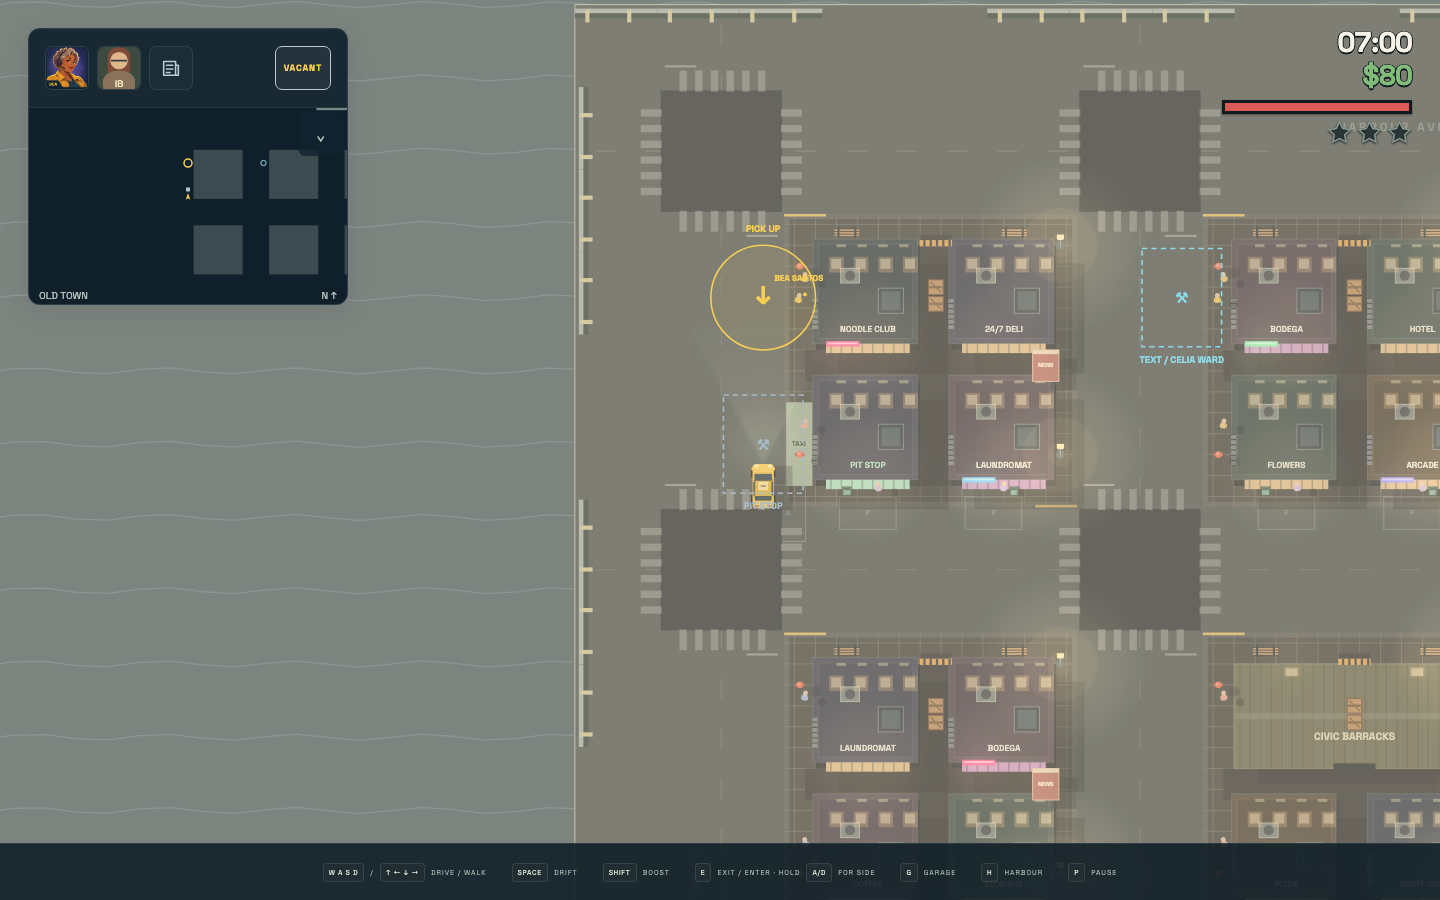
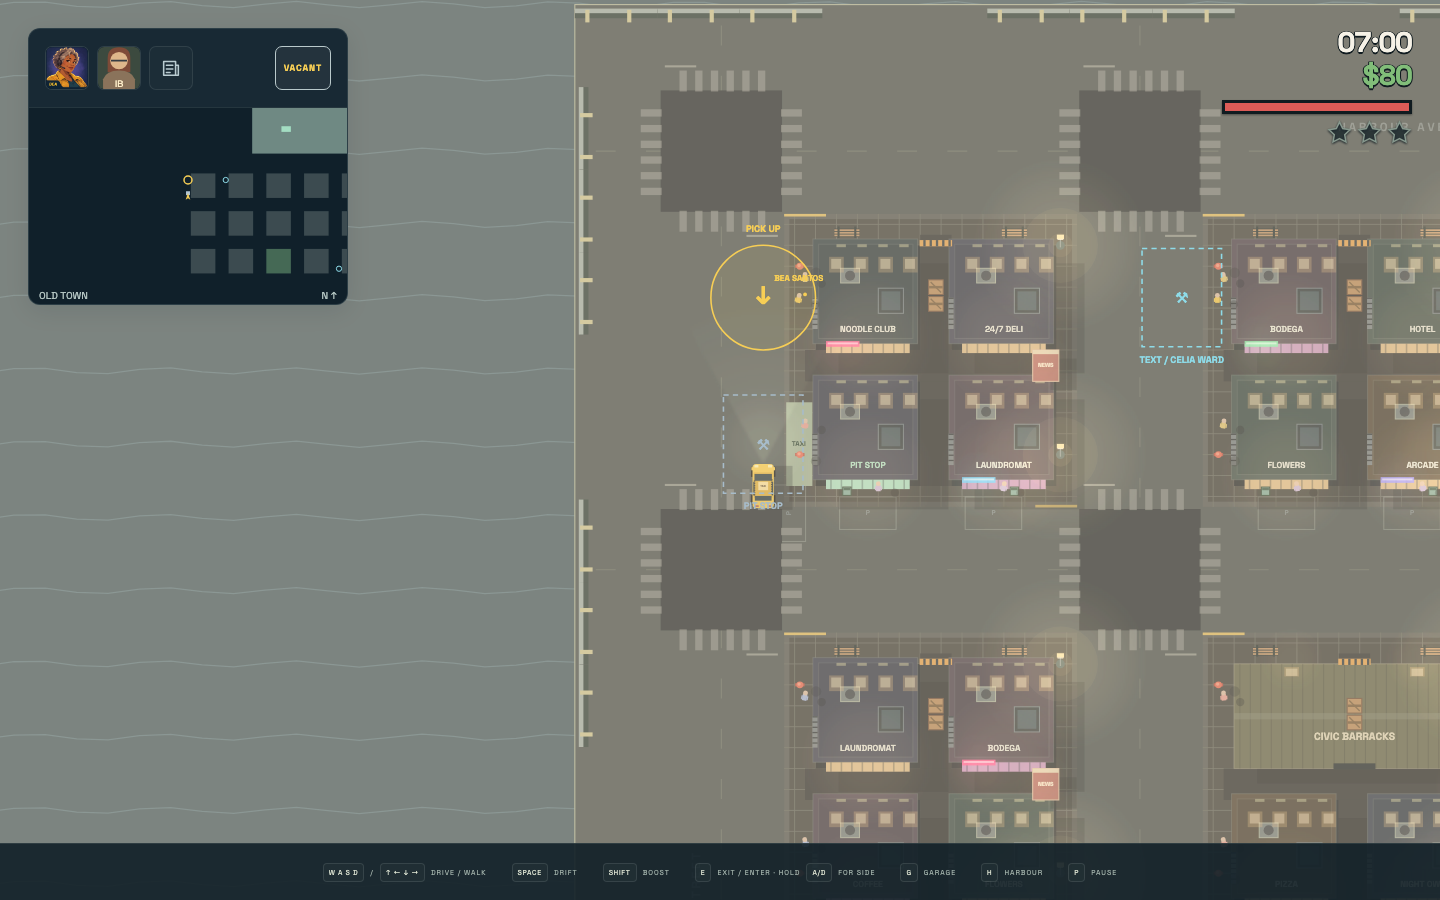
Keep minimap always visible and double its neighbourhood coverage

Changed region(s): [[0.125, 0.0933, 0.25, 0.3111]]

diff --git a/src/navigation-hud.ts b/src/navigation-hud.ts
@@ -20,7 +20,7 @@ export const navigationHudMarkup = `<aside class="navigation-hud panel" aria-lab
     </div>
     <button id="job-status" class="taxi-state" title="Clear fare guidance and browse dispatch">ENGAGED</button>
   </header>
-  <div class="navigation-chart"><div id="map-content"><canvas id="map" aria-label="Local minimap: yellow is your taxi, circles or edge arrows are destinations, blue squares are the garage or parked rides, red dots are police"></canvas></div><button id="map-toggle" class="map-toggle" aria-expanded="true" aria-controls="map-content" aria-label="Collapse navigation map"><span class="map-chevron" aria-hidden="true">⌄</span></button></div>
+  <div class="navigation-chart"><canvas id="map" aria-label="Local minimap: yellow is your taxi, circles or edge arrows are destinations, blue squares are the garage or parked rides, red dots are police"></canvas></div>
 </aside>`;
 
 /** View-only state: dispatch, physics, pickups and the saved game remain authoritative. */
@@ -73,12 +73,6 @@ export function bindNavigationHud(root: HTMLElement, currentGame: () => Game, ac
   });
   get('texts').addEventListener('click', actions.texts);
   get('newsroom').addEventListener('click', () => { currentGame().navigateNewsroom(); refresh(); actions.focus(); });
-  get('map-toggle').addEventListener('click', () => {
-    const collapsed = !get('map-content').hidden;
-    get('map-content').hidden = collapsed; panel.classList.toggle('collapsed', collapsed);
-    get('map-toggle').setAttribute('aria-expanded', String(!collapsed));
-    get('map-toggle').setAttribute('aria-label', collapsed ? 'Expand navigation map' : 'Collapse navigation map');
-  });
   let dispatcher = '';
   function refresh() {
     const g = currentGame(), state = navigationHudState(g, view().routed);

diff --git a/src/navigation-hud.test.ts b/src/navigation-hud.test.ts
@@ -7,18 +7,17 @@ describe('consolidated navigation HUD', () => {
     expect(navigationHudMarkup.match(/id="map"/g)).toHaveLength(1);
     expect(navigationHudMarkup).not.toContain('class="player-hud"');
     expect(navigationHudMarkup).not.toMatch(/https?:|<image|target|lightning/i);
-    for (const id of ['dispatch', 'texts', 'newsroom', 'job-status', 'mission-title', 'distance', 'map-toggle']) expect(navigationHudMarkup).toContain(`id="${id}"`);
+    for (const id of ['dispatch', 'texts', 'newsroom', 'job-status', 'mission-title', 'distance']) expect(navigationHudMarkup).toContain(`id="${id}"`);
   });
 
   it('ends at the minimap without instructions, readouts or service buttons below it', () => {
-    expect(navigationHudMarkup).toMatch(/<\/button><\/div>\s*<\/aside>$/);
+    expect(navigationHudMarkup).toMatch(/<\/canvas><\/div>\s*<\/aside>$/);
     for (const id of ['mission-description', 'job-progress', 'fare', 'fast-tip', 'comfort', 'notebook', 'photo', 'garage', 'harbour', 'boost-meter', 'speed']) expect(navigationHudMarkup).not.toContain(`id="${id}"`);
   });
 
-  it('keeps an accessible collapse chevron without a live or pursuit label', () => {
-    expect(navigationHudMarkup).not.toMatch(/map-status|LIVE|PURSUIT/);
-    expect(navigationHudMarkup).toContain('aria-label="Collapse navigation map"');
-    expect(navigationHudMarkup).toContain('class="map-chevron"');
+  it('keeps an accessible map without a status label or collapse button', () => {
+    expect(navigationHudMarkup).not.toMatch(/map-status|LIVE|PURSUIT|map-toggle|map-chevron|aria-expanded/);
+    expect(navigationHudMarkup).toContain('aria-label="Local minimap:');
   });
 
   it('distinguishes engaged, on-board and vacant without mutating the fare', () => {

diff --git a/src/radar.test.ts b/src/radar.test.ts
@@ -9,14 +9,21 @@ describe('local radar navigation', () => {
         const view = radarView(actor, width, height);
         expect(actor.x * view.scale + view.offset.x).toBeCloseTo(width / 2);
         expect(actor.y * view.scale + view.offset.y).toBeCloseTo(height / 2);
-        expect(view.scale * 160).toBeCloseTo(width - 16);
+        expect(view.scale * 320).toBeCloseTo(width - 16);
       }
     }
   });
   it('leaves nearby destinations in their actual positions', () => {
     const view = radarView(vec(4, 25), 176, 126);
-    expect(radarMarker(vec(14, 38), view, 176, 126)).toEqual({ position: vec(98, 76), angle: Math.atan2(13, 10), offscreen: false });
+    expect(radarMarker(vec(14, 38), view, 176, 126)).toEqual({ position: vec(93, 69.5), angle: Math.atan2(13, 10), offscreen: false });
     expect(radarMarker(vec(4, 25), view, 176, 126).offscreen).toBe(false);
+  });
+  it('shows destinations 100 m away inside the wider desktop and touch view', () => {
+    for (const [width, height] of [[320, 178], [204, 116], [240, 67], [176, 126], [114, 90]]) {
+      const actor = vec(4, 25), view = radarView(actor, width, height);
+      expect(radarMarker(vec(actor.x + 100, actor.y), view, width, height).offscreen).toBe(false);
+      expect(radarMarker(vec(actor.x - 100, actor.y), view, width, height).offscreen).toBe(false);
+    }
   });
   it('keeps distant destinations visible and preserves bearing in every direction', () => {
     for (const [width, height] of [[176, 126], [114, 90]]) {

diff --git a/src/navigation-hud.css b/src/navigation-hud.css
@@ -19,8 +19,6 @@
 .navigation-hud button:disabled:not(.taxi-state){opacity:.35}
 .navigation-chart{position:relative;border-top:1px solid var(--border);background:#0b1b2490}
 .navigation-hud #map{display:block;width:100%;height:196px;margin:0;padding:0}
-.navigation-hud .map-toggle{position:absolute;top:4px;right:4px;width:auto;min-width:44px;min-height:44px;justify-content:center;padding:0 8px;border-radius:6px;background:#10222dcc;letter-spacing:.6px}
-.navigation-hud.collapsed .navigation-chart{height:44px}
 /* Preserve the existing right-hand personal status and conversation layout. */
 .toast{max-width:calc(100% - 440px)}
 @media(max-width:700px), (max-width:1000px) and (max-height:500px), (pointer:coarse) and (max-width:1200px){

diff --git a/src/main.ts b/src/main.ts
@@ -172,7 +172,7 @@ window.addEventListener('keydown', e => {
   if (e.code === 'Space' && (game.mode === 'wasted' || game.mode === 'arrested') && !target?.closest('input, select, textarea')) {
     e.preventDefault(); if (!e.repeat) $('recover').click(); return;
   }
-  // Preserve native keyboard activation for HUD buttons, including radar toggle.
+  // Preserve native keyboard activation for HUD buttons.
   if (target?.closest('button') && (e.code === 'Space' || e.code === 'Enter')) return;
   if (e.code !== 'Tab' && target?.closest('input, select, textarea')) return;
   if (['ArrowUp', 'ArrowDown', 'ArrowLeft', 'ArrowRight', 'Space', 'Tab'].includes(e.code) && e.code !== 'Tab') e.preventDefault();

diff --git a/src/renderer.ts b/src/renderer.ts
@@ -734,7 +734,7 @@ export class Renderer {
     const { BEACH_OUTLINE, PROMENADE, BEACH_HOTELS } = this.game.map.beach;
     const { roadPath } = this.game.world.navigation;
     const width = this.map.clientWidth, height = this.map.clientHeight;
-    if (!width || !height) return; // Collapsed radar needs no drawing work.
+    if (!width || !height) return; // Hidden or unmounted radar needs no drawing work.
     const pixelsW = Math.round(width * this.dpr), pixelsH = Math.round(height * this.dpr);
     if (this.map.width !== pixelsW || this.map.height !== pixelsH) { this.map.width = pixelsW; this.map.height = pixelsH; }
     const c = this.mapCtx, g = this.game, chartHeight = height - 18;

diff --git a/src/radar.ts b/src/radar.ts
@@ -1,8 +1,8 @@
 import { vec, type Vec } from './physics';
 
-// A fixed 160 m neighbourhood stays legible as the map is made smaller.
+// A fixed 320 m neighbourhood gives wider context at desktop and touch sizes.
 export function radarView(actor: Vec, width: number, height: number) {
-  const scale = (width - 16) / 160;
+  const scale = (width - 16) / 320;
   const center = vec(width / 2, height / 2);
   return { scale, center, offset: vec(center.x - actor.x * scale, center.y - actor.y * scale) };
 }

diff --git a/HOW_TO.md b/HOW_TO.md
@@ -65,8 +65,8 @@ After an ordinary delivery, **VACANT** shows dispatch, booking and newsroom
 shortcuts. Tap **ENGAGED** before pickup to hide fare guidance and browse these
 shortcuts; tap the dispatcher portrait or **VACANT** to route the next fare.
 Bookings opens your texts; the newspaper routes to the newsroom. Hiding guidance
-does not cancel a booking or prevent a physical pickup. The map chevron collapses
-only the map, leaving the header visible.
+does not cancel a booking or prevent a physical pickup. The minimap shows a wider
+320 m neighbourhood and stays visible, without a status label or collapse button.
 
 - **Eastern bridges and highlands:** take the northern crossing to Pine Woods or the southern crossing to Eagle Highlands. Curved roads connect Pine Junction, Fern Hollow, Highland Lodge, and Eagle Lookout. F2 → **Eastern bridges / highlands** starts at Pine Bridge with a delivery to Eagle Lookout. See [screenshots and map notes](docs/eastern-highlands.md).
 - **Woodland villas and Fairway Country Club:** explore the southern loop through Millionaires Row, Woodland Estates, and Cedar Woods, with private villa drives and a golf club. F2 → **Woodland villas / golf club** starts in Woodland Estates with a passenger for Fairway Club. See the [map overview](docs/woodland-estates.md).
